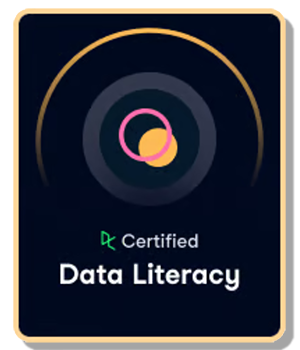
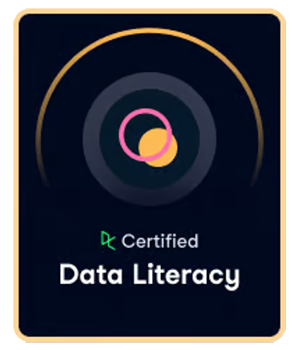
Updated navigation and drop shadows

Changed region(s): [[0.06, 0.0571, 0.99, 1.0]]

diff --git a/src/components/Certs.tsx b/src/components/Certs.tsx
@@ -7,25 +7,24 @@ import SQLA from '../assets/images/SQLAssociate.png';
 
 function Certs() {
     return (
-    <section className="enable-animation" id="certs">
+    <section className="enable-animation" id="certificates">
         <div className="marquee-container">
+            <h1>Certificates</h1>
             <div className="marquee-title">
-                <h1>Certifications</h1>
-            
                 <ul className="marquee">
                     <div className="marquee-content">
                         <a href="https://www.datacamp.com/certificate/DAA0010749904281" target="_blank" rel="noreferrer">
-                        <div className="marquee-item zoom">
+                        <div className="marquee-item">
                             <img src={DAA} height="150px" width="100px" alt="Data Analyst Associate certification badge" /><br />
                         </div>
                         </a>
                         <a href="https://www.datacamp.com/certificate/SQA0018388461209" target="_blank" rel="noreferrer">
-                        <div className="marquee-item zoom">
+                        <div className="marquee-item">
                             <img src={SQLA} height="150px" width="100px" alt="SQL Associate certification badge" /><br />
                         </div>
                         </a>
                         <a href="https://www.datacamp.com/skill-verification/DL0031684006784" target="_blank" rel="noreferrer">
-                        <div className="marquee-item zoom">
+                        <div className="marquee-item">
                             <img src={DL} height="150px" width="100px" alt="Data Literacy certification badge" /><br />
                         </div>
                         </a>
@@ -33,17 +32,17 @@ function Certs() {
 
                     <div aria-hidden="true" className="marquee-content">
                         <a href="https://www.datacamp.com/certificate/DAA0010749904281" target="_blank" rel="noreferrer">
-                        <div className="marquee-item zoom">
+                        <div className="marquee-item">
                             <img src={DAA} height="150px" width="100px" alt="Data Analyst Associate certification badge" /><br />
                         </div>
                         </a>
                         <a href="https://www.datacamp.com/certificate/SQA0018388461209" target="_blank" rel="noreferrer">
-                        <div className="marquee-item zoom">
+                        <div className="marquee-item">
                             <img src={SQLA} height="150px" width="100px" alt="SQL Associate certification badge" /><br />
                         </div>
                         </a>
                         <a href="https://www.datacamp.com/skill-verification/DL0031684006784" target="_blank" rel="noreferrer">
-                        <div className="marquee-item zoom">
+                        <div className="marquee-item">
                             <img src={DL} height="150px" width="100px" alt="Data Literacy certification badge" /><br />
                         </div>
                         </a>

diff --git a/src/assets/styles/Project.scss b/src/assets/styles/Project.scss
@@ -24,14 +24,17 @@
     border-radius: 5px;
     transition: transform .2s;
     margin: 0 auto;
+    box-shadow: 2px 2px 2px rgba(0, 0, 0, 0.3);
 }
   
 .zoom:hover {
     transform: scale(1.05);
+    box-shadow: 5px 5px 5px rgba(0, 0, 0, 0.3);
 }
 
 .zoom:active {
     transform: scale(0.90);
+    box-shadow: 1px 1px 1px rgba(0, 0, 0, 0.3);
 }
 
 @media screen {

diff --git a/src/components/index.js b/src/components/index.js
@@ -1,8 +1,7 @@
 export { default as Navigation } from "./Navigation";
 export { default as Footer } from "./Footer";
 export { default as Main } from "./Main";
-export { default as Certs } from "./Certs";
 export { default as Expertise } from "./Expertise";
+export { default as Certs } from "./Certs";
 export { default as Timeline } from "./Timeline";
 export { default as Project } from "./Project";
-export { default as Contact } from "./Contact";

diff --git a/src/components/Navigation.tsx b/src/components/Navigation.tsx
@@ -17,7 +17,7 @@ import MenuIcon from '@mui/icons-material/Menu';
 import Toolbar from '@mui/material/Toolbar';
 
 const drawerWidth = 240;
-const navItems = [['Expertise', 'expertise'], ['History', 'history'], ['Projects', 'projects']];
+const navItems = [['Expertise', 'expertise'], ['Certificates', 'certificates'], ['History', 'history'], ['Projects', 'projects']];
 
 function Navigation({parentToChild, modeChange}: any) {
 